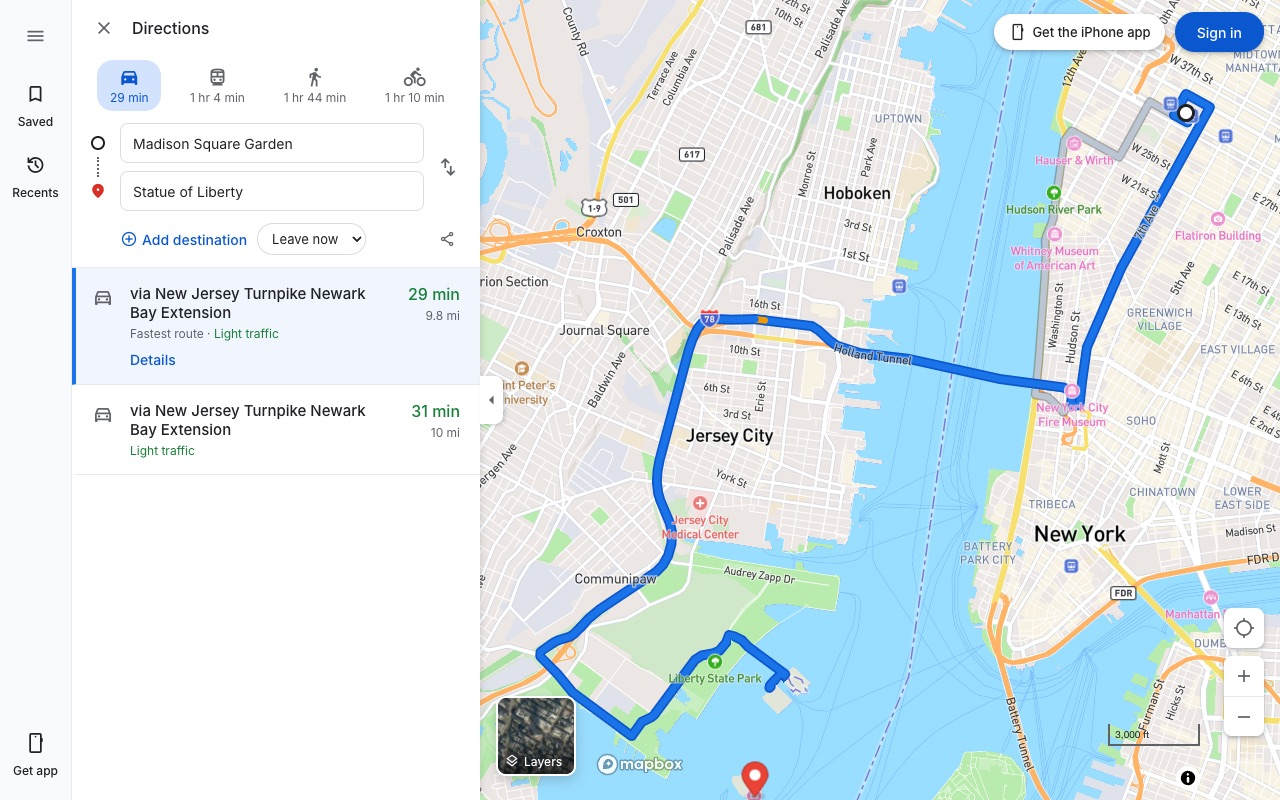
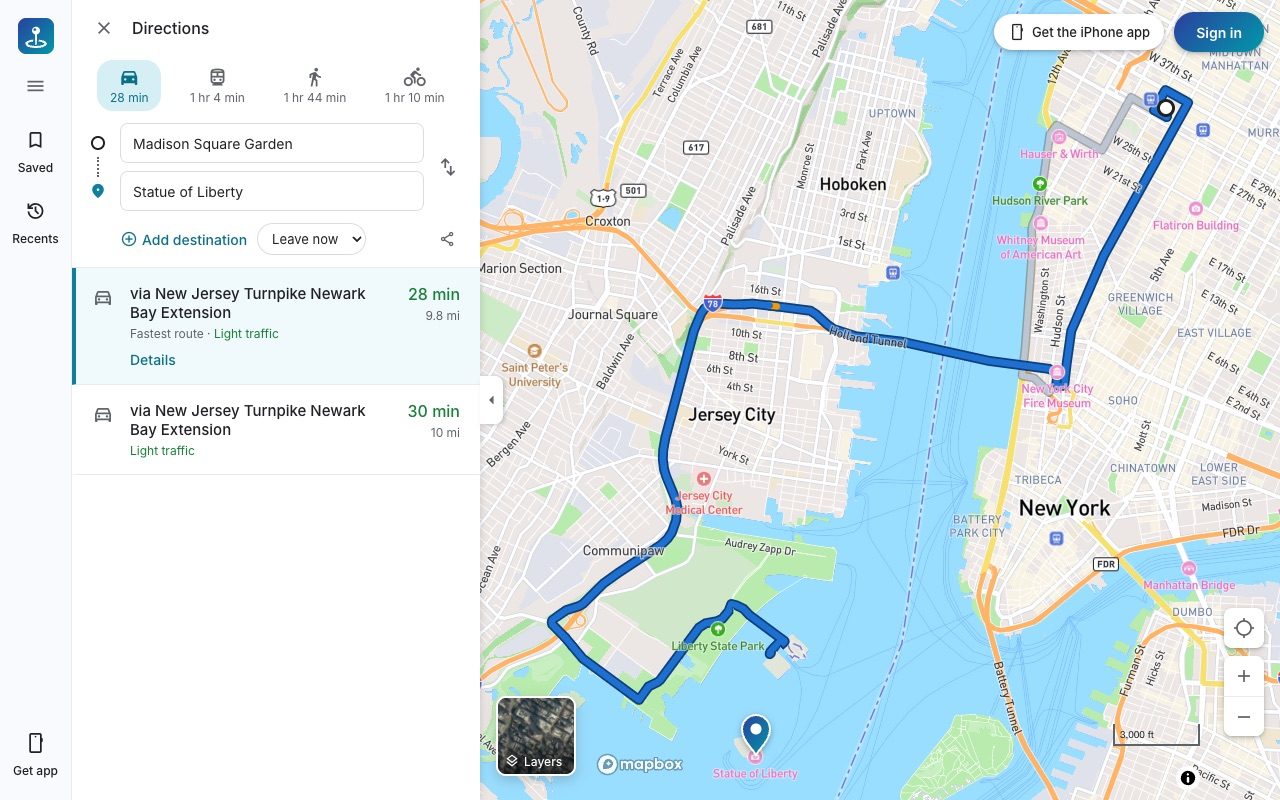
Branded screenshots; phone screenshot in the hero on small screens; keep image proportions

diff --git a/index.html b/index.html
@@ -20,7 +20,11 @@ description: Search, directions, transit and live traffic. On your iPhone and in
   .browser-bar i { width:11px; height:11px; border-radius:50%; background:#ff5f57; } .browser-bar i:nth-child(2){background:#febc2e} .browser-bar i:nth-child(3){background:#28c840}
   .browser-bar span { margin-left:12px; font-size:12px; color:var(--muted); background:var(--card); border:1px solid var(--line); border-radius:6px; padding:2px 12px; }
   .phone { position:absolute; right:-8px; bottom:-30px; width:220px; border-radius:32px; border:8px solid #0f1720; overflow:hidden; box-shadow:0 24px 60px rgba(15,23,32,.35); background:#0f1720; }
-  .phone img { aspect-ratio:430/860; object-fit:cover; object-position:top; }
+  .phone img { width:100%; height:auto; }
+  .showcase img { width:100%; height:auto; }
+  .split-media img { width:100%; height:auto; }
+  .hero-phone { display:none; max-width:300px; margin:44px auto 0; border-radius:36px; border:8px solid #0f1720; overflow:hidden; box-shadow:0 24px 60px rgba(15,23,32,.3); }
+  .hero-phone img { width:100%; height:auto; display:block; }
   section { padding:96px 0; }
   .section-head { text-align:center; max-width:680px; margin:0 auto 48px; }
   .section-head h2 { font-size:clamp(30px,4vw,44px); line-height:1.1; margin:0 0 12px; }
@@ -54,7 +58,7 @@ description: Search, directions, transit and live traffic. On your iPhone and in
     .split.rev .split-media { order:0; }
     .phone { display:none; }
   }
-  @media (max-width:600px) { .features { grid-template-columns:1fr; } section { padding:64px 0; } .hero { padding-top:48px; } .ctas .btn { width:100%; } }
+  @media (max-width:600px) { .showcase { display:none; } .hero-phone { display:block; } .features { grid-template-columns:1fr; } section { padding:64px 0; } .hero { padding-top:48px; } .ctas .btn { width:100%; } }
   @media (prefers-reduced-motion: reduce) { * { transition:none !important; } }
 </style>
 
@@ -76,8 +80,9 @@ description: Search, directions, transit and live traffic. On your iPhone and in
         <div class="browser-bar"><i></i><i></i><i></i><span>app.kovamaps.com</span></div>
         <img src="/assets/shot-directions.jpg" alt="Kova Maps on the web showing driving directions from Madison Square Garden to the Statue of Liberty with traffic" width="1280" height="800">
       </div>
-      <div class="phone"><img src="/assets/shot-phone.jpg" alt="Kova Maps on a phone showing the Empire State Building" loading="lazy"></div>
+      <div class="phone"><img src="/assets/shot-phone.jpg" alt="Kova Maps on a phone showing the Empire State Building" width="390" height="844" loading="lazy"></div>
     </div>
+    <div class="hero-phone"><img src="/assets/shot-phone.jpg" alt="Kova Maps on a phone showing the Empire State Building" width="390" height="844"></div>
   </div>
 </section>
 
@@ -100,7 +105,7 @@ description: Search, directions, transit and live traffic. On your iPhone and in
 
 <section class="alt">
   <div class="wrap split">
-    <div class="split-media"><img src="/assets/shot-place.jpg" alt="Kova Maps place panel for the Empire State Building with photos, rating and actions" loading="lazy"></div>
+    <div class="split-media"><img src="/assets/shot-place.jpg" alt="Kova Maps place panel for the Empire State Building with photos, rating and actions" width="1280" height="800" loading="lazy"></div>
     <div>
       <h2>Every place, in detail</h2>
       <p>Open any spot on the map to see what it is really like before you go.</p>
@@ -116,7 +121,7 @@ description: Search, directions, transit and live traffic. On your iPhone and in
 
 <section>
   <div class="wrap split rev">
-    <div class="split-media"><img src="/assets/shot-directions.jpg" alt="Directions with route options and live traffic" loading="lazy"></div>
+    <div class="split-media"><img src="/assets/shot-directions.jpg" alt="Directions with route options and live traffic" width="1280" height="800" loading="lazy"></div>
     <div>
       <h2>Pick the best way there</h2>
       <p>Compare every mode at a glance, then dig into the route that fits.</p>

diff --git a/_layouts/default.html b/_layouts/default.html
@@ -24,7 +24,7 @@
     body { margin:0; font-family:Inter,-apple-system,BlinkMacSystemFont,system-ui,sans-serif; background:var(--bg); color:var(--text); line-height:1.6; -webkit-font-smoothing:antialiased; }
     h1,h2,h3,.brand { font-family:Manrope,Inter,system-ui,sans-serif; letter-spacing:-.02em; }
     a { color:var(--accent); text-decoration:none; } a:hover { text-decoration:underline; }
-    img { max-width:100%; display:block; }
+    img { max-width:100%; height:auto; display:block; }
     .wrap { max-width:1120px; margin:0 auto; padding:0 24px; }
     /* nav */
     .nav { position:sticky; top:0; z-index:20; backdrop-filter:saturate(1.4) blur(14px); -webkit-backdrop-filter:saturate(1.4) blur(14px); background:color-mix(in srgb,var(--bg) 82%,transparent); border-bottom:1px solid transparent; transition:border-color .2s; }
